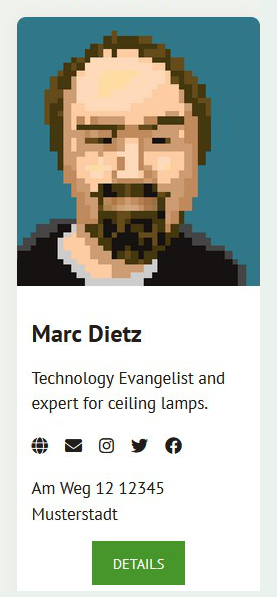
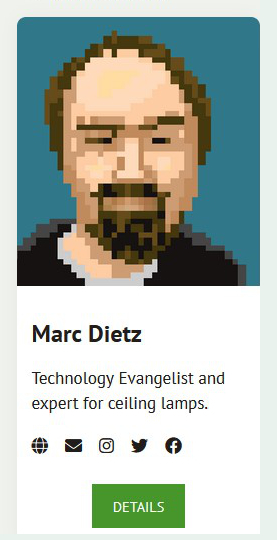
Add option 'adresse' to person-shortcodes.

diff --git a/templates/persons_grid.php b/templates/persons_grid.php
@@ -5,12 +5,14 @@
             'show_shortinfo'     => false || (  $atts['kurzinfo'] == 'ja'),
             'show_phonenumbers'  => true  && (! $atts['telefon'] == 'nein'),
             'show_detail_button' => false || (  $atts['button'] == 'ja'),
+            'show_address'       => true  && (! $atts['adresse'] == 'nein')
         ),
         'detail' => array (
             'show_job'           => false || (  $atts['jobinfo'] == 'ja'),
             'show_shortinfo'     => true  && (! $atts['kurzinfo'] == 'nein'),
             'show_phonenumbers'  => false || (  $atts['telefon'] == 'ja'),
             'show_detail_button' => true  && (! $atts['button'] == 'nein'),
+            'show_address'       => false || (  $atts['adresse'] == 'ja')
     
         )
     );
@@ -76,7 +78,7 @@
                     <?php endif; ?>
                 </div>
 
-                <?php if(! empty($address) ) : ?>
+                <?php if(! empty($address) && $settings['show_address'] ) : ?>
                     <p class="person-description mb-2"><?php echo $address; ?></p>
                 <?php endif; ?>
 

diff --git a/README.md b/README.md
@@ -18,6 +18,7 @@ It will probably fit best with the WordPress-Theme [sunflower](https://github.co
 - Bugfix: twitter-metadata no longer gets deleted
 - Bugfix: instagram link gets displayed in frontend
 - Add images to repo for wiki
+- Have option 'adresse' in shortcodes
 
 ## 0.8.3
 
